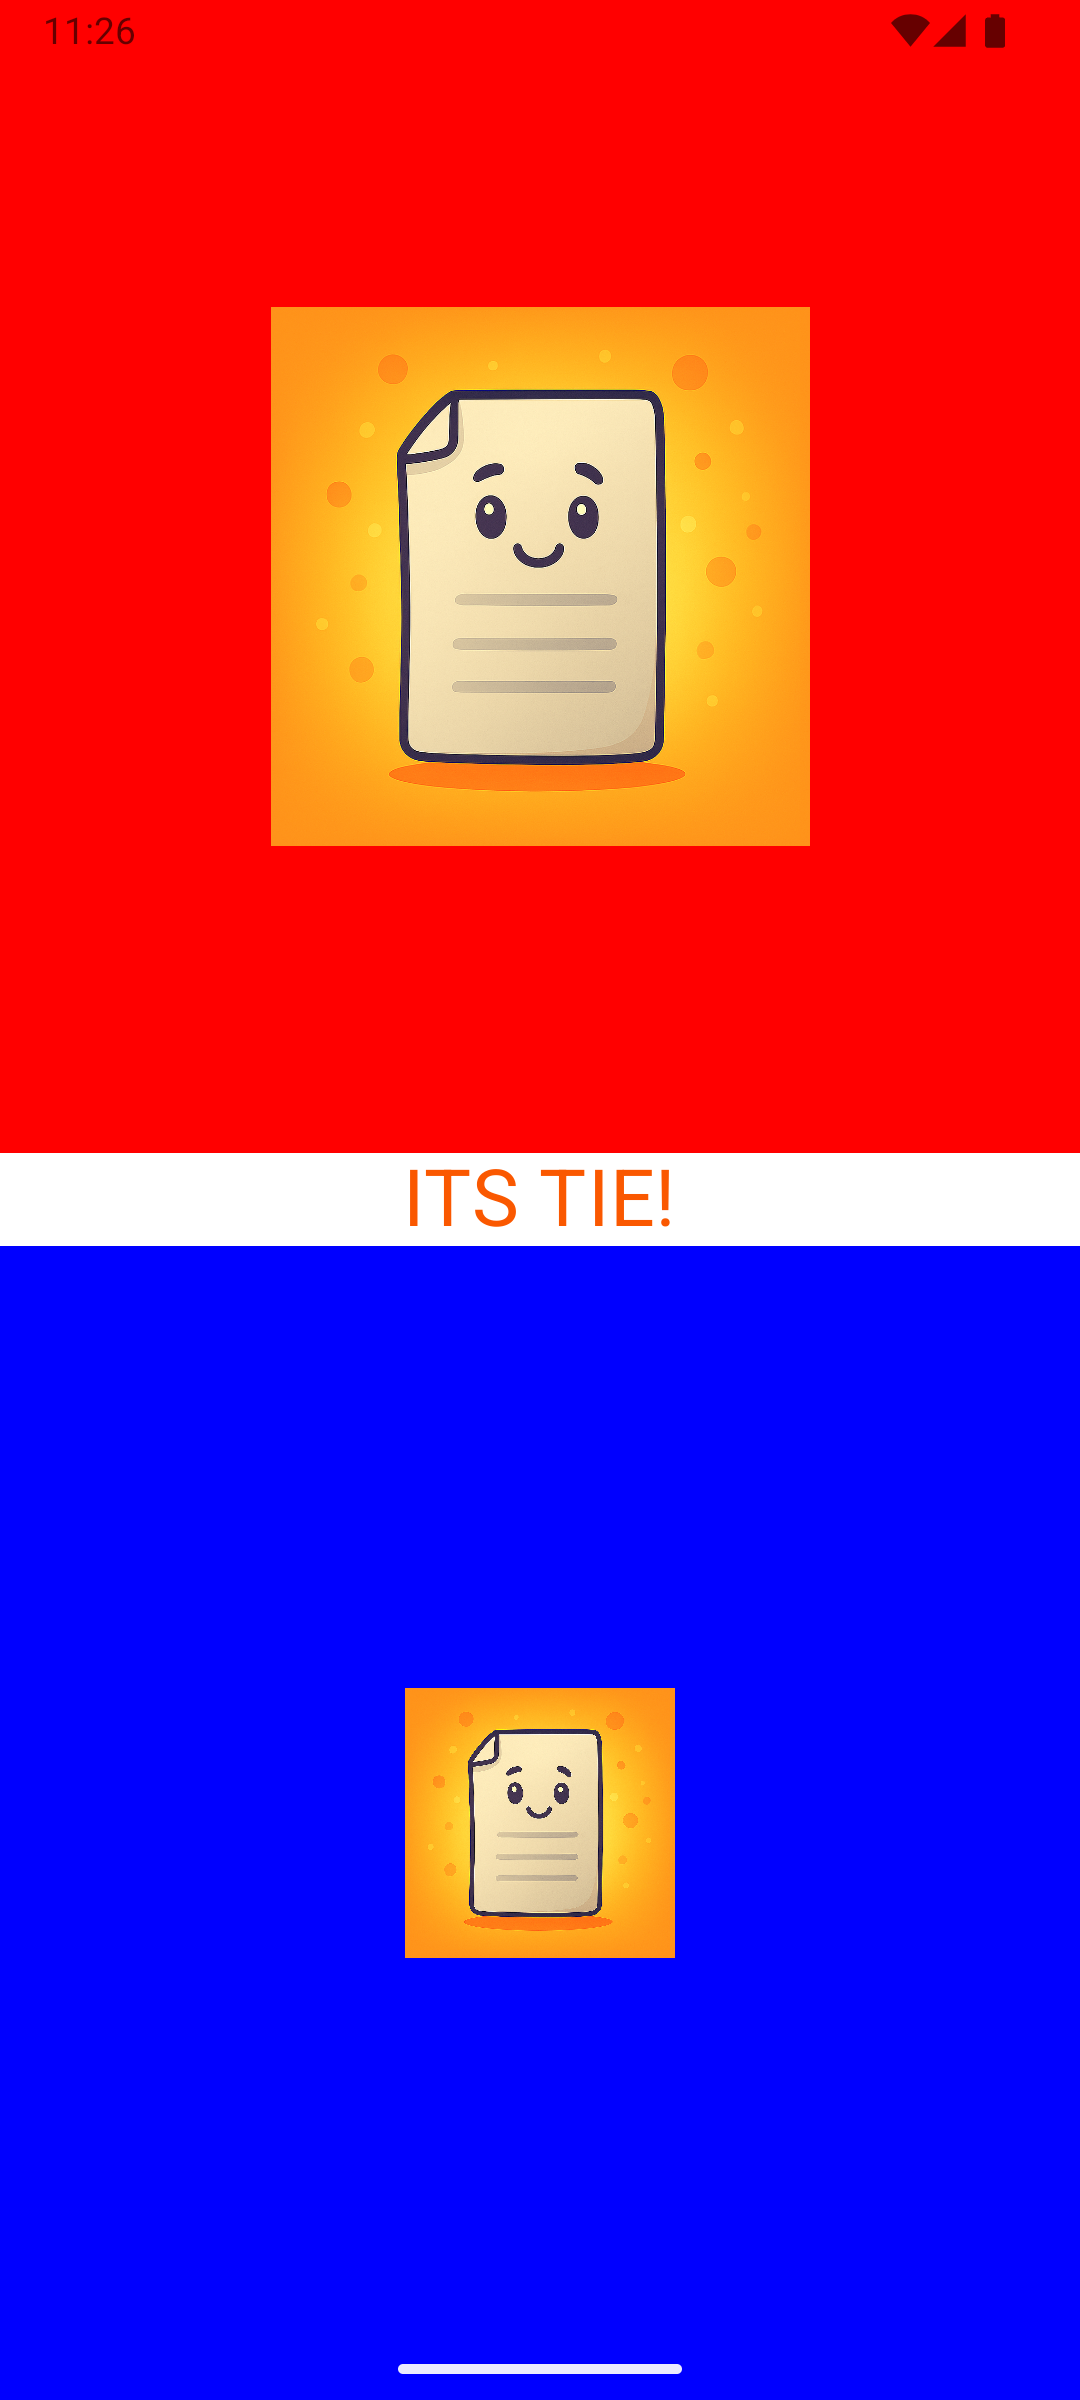
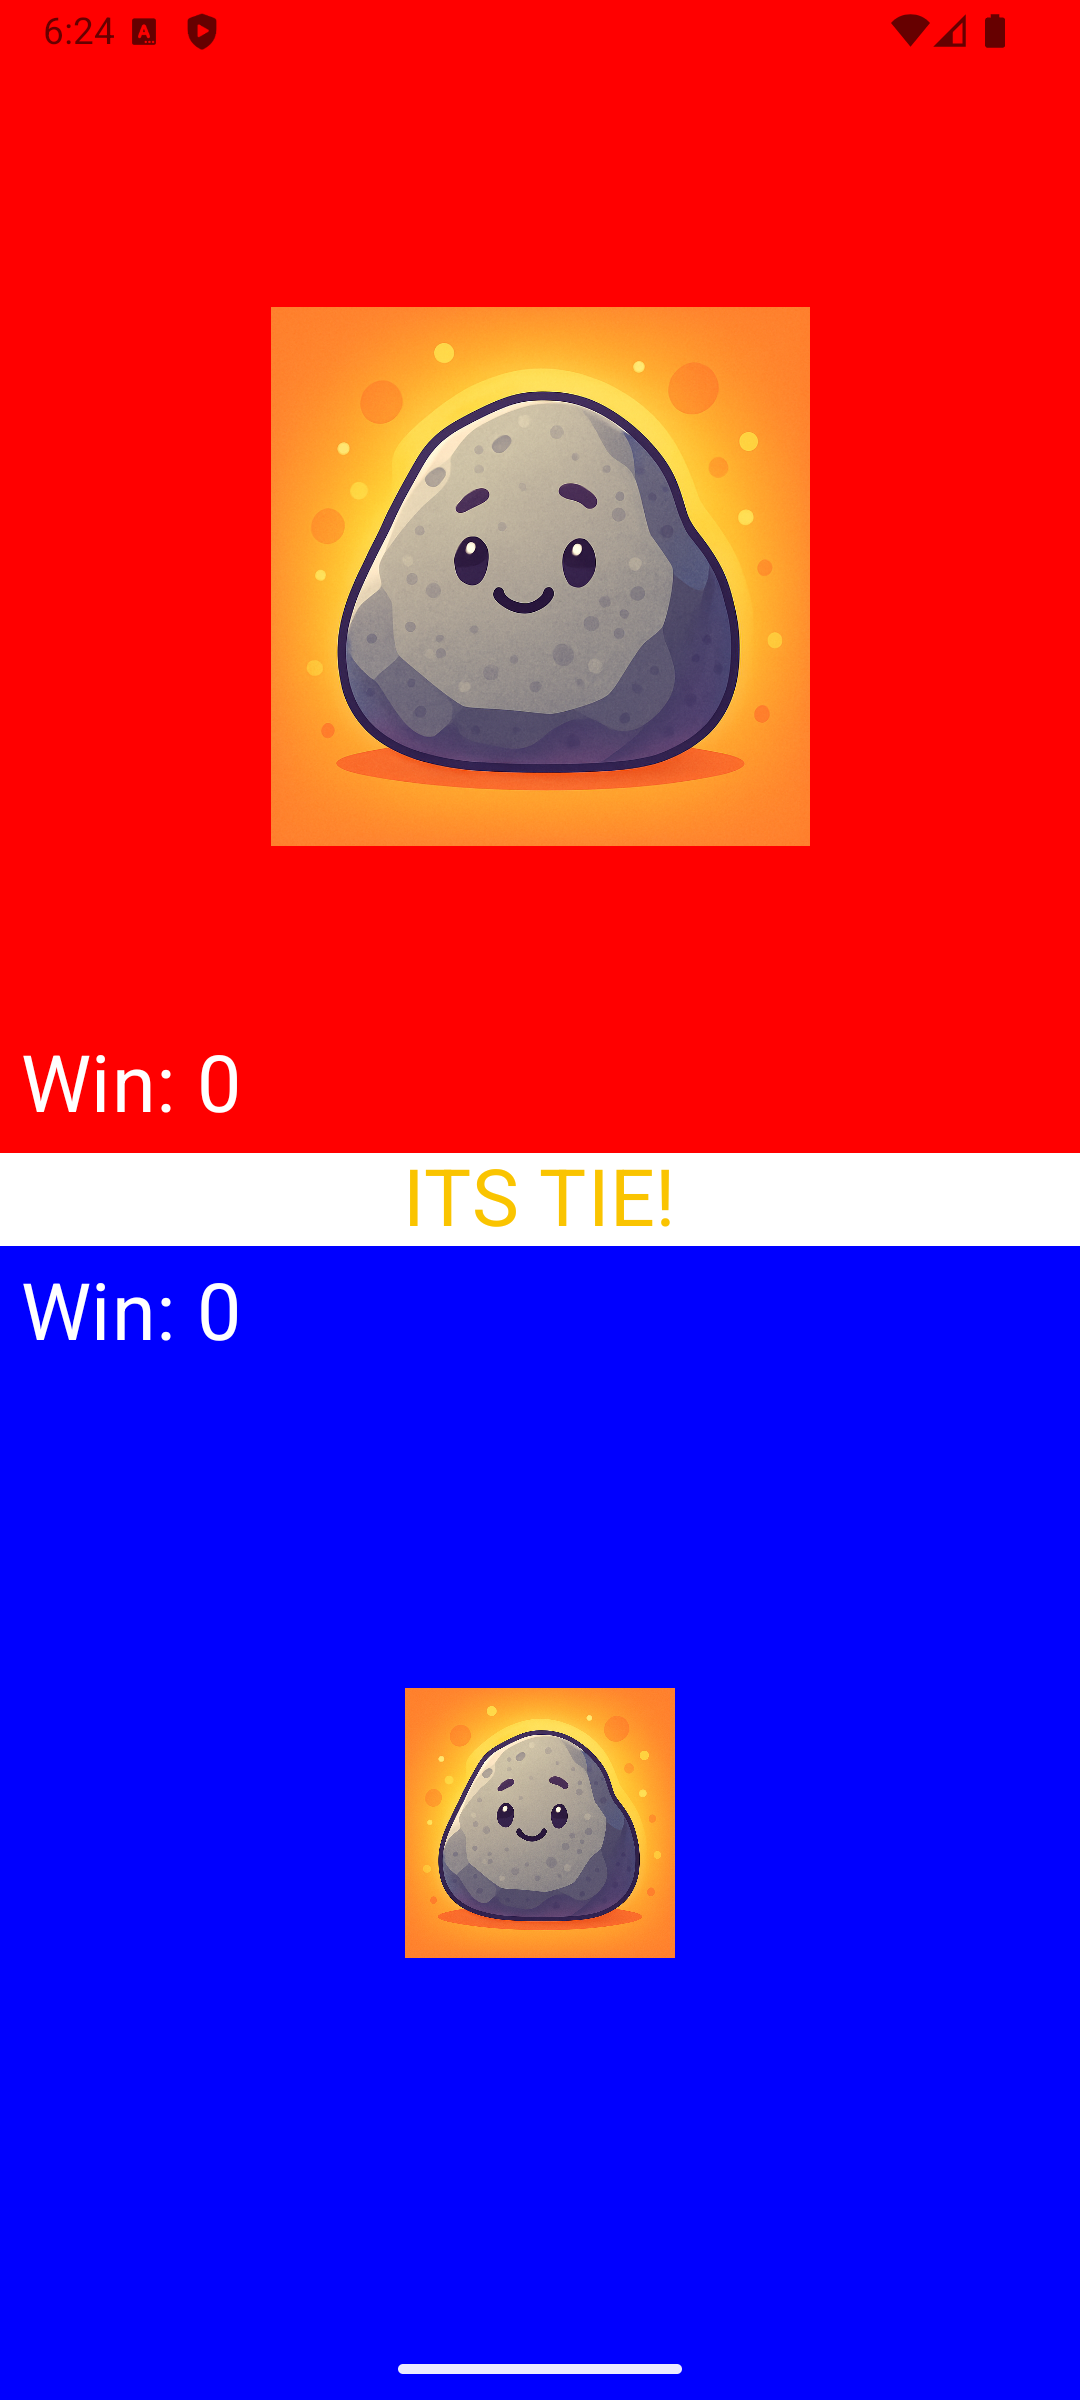
Fully Implemented Win Counter Logic

diff --git a/app/src/main/java/com/infinitysoftware/rockpaperscissors/Game.kt b/app/src/main/java/com/infinitysoftware/rockpaperscissors/Game.kt
@@ -16,6 +16,7 @@ import androidx.compose.ui.unit.Dp
 import androidx.compose.ui.unit.TextUnit
 import androidx.compose.ui.unit.dp
 import androidx.compose.ui.unit.sp
+import com.infinitysoftware.rockpaperscissors.ui.theme.TieYellow
 
 // Game Messages.
 val itsTieMessage = "ITS TIE!"
@@ -43,6 +44,8 @@ fun Game(defaultFontSize: TextUnit = 30.sp) {
     var playerWinCounter by remember { mutableStateOf(0) }
     var cpuWinCounter by remember { mutableStateOf(0) }
 
+    var allowCounter by remember { mutableStateOf(false) }
+
     val screenWidth = LocalConfiguration.current.screenWidthDp.dp
     val CPUImageSize = screenWidth / 2
     val PlayerImageSize = screenWidth / 4
@@ -54,6 +57,7 @@ fun Game(defaultFontSize: TextUnit = 30.sp) {
         showRockButton = true
         showPaperButton = true
         showScissorsButton = true
+        allowCounter = false
     }
 
     Column(modifier = Modifier.fillMaxSize()) {
@@ -110,7 +114,7 @@ fun Game(defaultFontSize: TextUnit = 30.sp) {
                     (playerChoice == "Scissors" && cpuChoice == R.drawable.scissors)
                 ) {
                     resultText = itsTieMessage
-                    resultColor = Color(0xFFFAC400)
+                    resultColor = TieYellow
                 } else if (
                     (playerChoice == "Rock" && cpuChoice == R.drawable.scissors) ||
                     (playerChoice == "Paper" && cpuChoice == R.drawable.rock) ||
@@ -121,6 +125,24 @@ fun Game(defaultFontSize: TextUnit = 30.sp) {
                 } else {
                     resultText = cpuWinMessage
                     resultColor = Color.Red
+                }
+
+                // Add Points Only Once Per Game.
+                if (!allowCounter && playerChoice.isNotEmpty()) {
+                    if (
+                        (playerChoice == "Rock" && cpuChoice == R.drawable.scissors) ||
+                        (playerChoice == "Paper" && cpuChoice == R.drawable.rock) ||
+                        (playerChoice == "Scissors" && cpuChoice == R.drawable.paper)
+                    ) {
+                        playerWinCounter++
+                    } else if (
+                        (playerChoice == "Rock" && cpuChoice == R.drawable.paper) ||
+                        (playerChoice == "Paper" && cpuChoice == R.drawable.scissors) ||
+                        (playerChoice == "Scissors" && cpuChoice == R.drawable.rock)
+                    ) {
+                        cpuWinCounter++
+                    }
+                    allowCounter = true
                 }
 
                 Column(horizontalAlignment = Alignment.CenterHorizontally) {
@@ -165,7 +187,6 @@ fun Game(defaultFontSize: TextUnit = 30.sp) {
                         },
                         onReset = {
                             resetGame()
-                            playerWinCounter++
                         }
                     )
                 }
@@ -181,7 +202,9 @@ fun Game(defaultFontSize: TextUnit = 30.sp) {
                             showRockButton = false
                             showScissorsButton = false
                         },
-                        onReset = { resetGame() }
+                        onReset = {
+                            resetGame()
+                        }
                     )
                 }
 
@@ -196,7 +219,9 @@ fun Game(defaultFontSize: TextUnit = 30.sp) {
                             showRockButton = false
                             showPaperButton = false
                         },
-                        onReset = { resetGame() }
+                        onReset = {
+                            resetGame()
+                        }
                     )
                 }
             }

diff --git a/app/src/main/java/com/infinitysoftware/rockpaperscissors/ui/theme/Color.kt b/app/src/main/java/com/infinitysoftware/rockpaperscissors/ui/theme/Color.kt
@@ -9,3 +9,5 @@ val Pink80 = Color(0xFFEFB8C8)
 val Purple40 = Color(0xFF6650a4)
 val PurpleGrey40 = Color(0xFF625b71)
 val Pink40 = Color(0xFF7D5260)
+
+val TieYellow = Color(0xFFFAC400)
